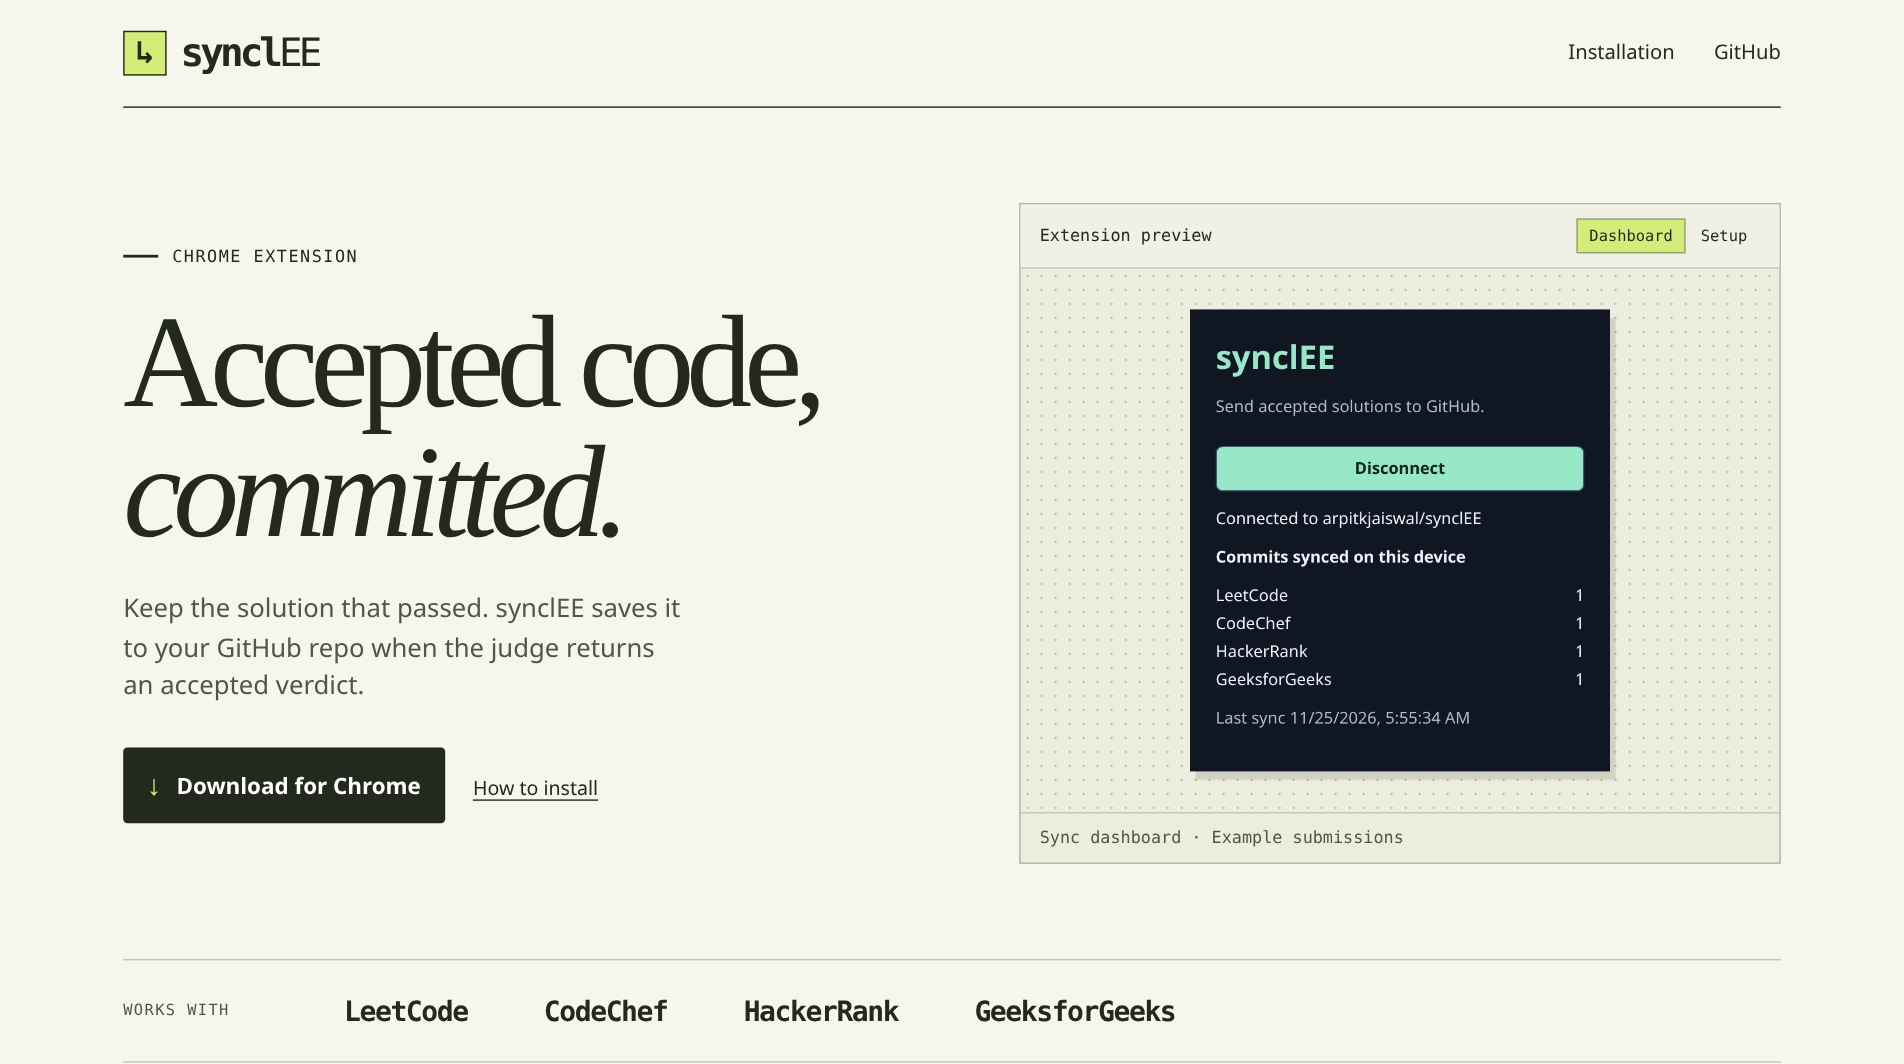
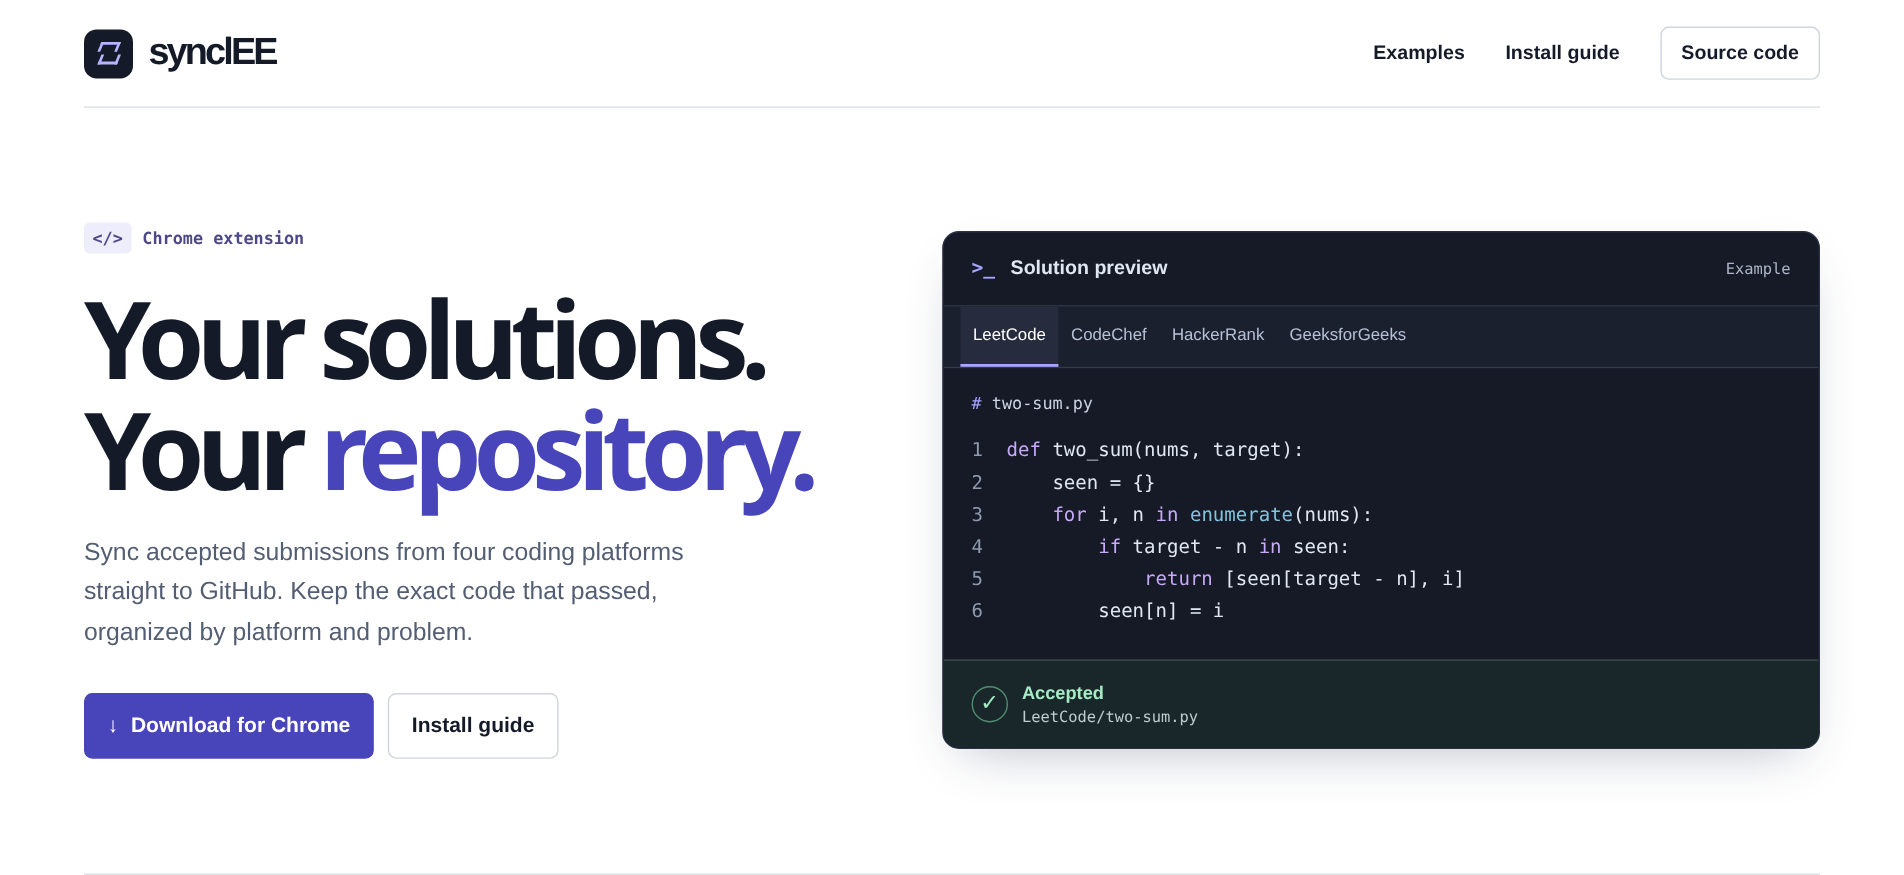
Present synclEE with an interactive solution explorer

diff --git a/site/styles.css b/site/styles.css
@@ -1,74 +1,86 @@
 :root {
   color-scheme: light;
-  --paper: #f6f5ee;
-  --ink: #24291e;
-  --muted: #505748;
-  --line: #c4c6b7;
-  --lime: #d4ed78;
-  --serif: 'Baskervville', 'Iowan Old Style', Georgia, serif;
-  --mono: 'IBM Plex Mono', ui-monospace, monospace;
-  font: 16px/1.5 'Instrument Sans', system-ui, sans-serif;
-  background: var(--paper);
+  --ink: #151a29;
+  --muted: #535e73;
+  --line: #d9dfe8;
+  --accent: #4845bb;
+  --mono: 'IBM Plex Mono', ui-monospace, 'DejaVu Sans Mono', monospace;
+  font: 16px/1.55 'Inter', -apple-system, BlinkMacSystemFont, 'Segoe UI', sans-serif;
+  background: #fff;
   color: var(--ink);
 }
 * { box-sizing: border-box; }
-body, figure, h1, h2, h3, p { margin: 0; }
-a { color: inherit; text-underline-offset: .23em; }
-a:focus-visible, button:focus-visible { outline: 3px solid #637b16; outline-offset: 4px; }
-.wrap { width: min(1184px, calc(100% - 80px)); margin-inline: auto; }
-.masthead, nav, footer, .brand, .preview-head, .controls { display: flex; align-items: center; }
-.masthead { justify-content: space-between; padding-block: 22px; border-bottom: 1px solid var(--ink); }
-.brand { gap: 0; font: 700 28px/1 var(--mono); letter-spacing: -.1em; text-decoration: none; }
-.brand > span:last-child { font-weight: 400; }
-.mark { display: grid; place-items: center; margin-right: 10px; width: 31px; height: 32px; background: var(--lime); border: 1px solid var(--ink); font: 700 23px/1 var(--mono); letter-spacing: 0; }
-nav { gap: 28px; font-size: .9rem; }
-nav a { text-decoration: none; }
-nav a:hover, .guide:hover, footer a:hover { text-decoration: underline; }
-.hero { display: grid; grid-template-columns: 1.05fr 1fr; align-items: center; gap: clamp(30px,5vw,80px); padding-block: clamp(42px,5vw,80px); }
-.format, .preview-head, figcaption, .platforms h2 { font: 12px/1.4 var(--mono); }
-.format, .platforms h2 { text-transform: uppercase; letter-spacing: .09em; }
-.format { display: flex; align-items: center; gap: 10px; }
-.format::before { content: ''; width: 25px; height: 2px; background: var(--ink); }
-h1 { font: 500 clamp(56px,6.9vw,103px)/.99 var(--serif); letter-spacing: -.062em; margin-block: 22px; }
-h1 em { font-weight: 400; }
-.lede { max-width: 38ch; color: var(--muted); font-size: clamp(16px,1.35vw,20px); }
-.download { display: inline-flex; align-items: center; gap: 11px; padding: 12px 17px; background: var(--ink); color: white; text-decoration: none; font-weight: 600; margin-top: 30px; border-radius: 3px; }
-.download span { color: var(--lime); font-size: 20px; }
-.download:hover { background: #374529; }
-.guide { margin-left: 16px; font-size: 14px; }
-.sheet { border: 1px solid #aeb29f; background: #eceddf; }
-.preview-head { justify-content: space-between; gap: 8px; padding: 10px 14px; border-bottom: 1px solid var(--line); background: #f0f0e5; }
-.controls { gap: 2px; }
-[hidden] { display: none !important; }
-.controls button { cursor: pointer; font: inherit; font-size: 11px; padding: 4px 8px; background: transparent; color: var(--ink); border: 1px solid transparent; }
-.controls button[aria-pressed=true] { border-color: #969e82; background: var(--lime); }
-.board { display: grid; place-items: center; min-height: 388px; padding: 24px; background-image: radial-gradient(#b5bba7 .8px, transparent .9px); background-size: 10px 10px; }
-.board img { display: block; width: min(100%, 300px); height: auto; max-height: 340px; object-fit: contain; filter: drop-shadow(4px 6px 0 rgb(53 62 42 / .15)); }
-figcaption { border-top: 1px solid var(--line); padding: 9px 14px; color: var(--muted); }
-.platforms { display:flex; align-items:center; gap:clamp(20px,6vw,85px); padding:22px 0; border-block:1px solid var(--line); }
-.platforms h2 { font-size:11px; color:var(--muted); }
-.platforms ul { padding:0; margin:0; display:flex; flex-wrap:wrap; gap:12px clamp(20px,4vw,60px); list-style:none; }
-.platforms li { font:600 clamp(15px,1.5vw,20px)/1.4 var(--mono); letter-spacing:-.05em; }
-.install { padding:64px 0; display:grid; grid-template-columns:1fr 1.45fr; gap:60px; }
-.install h2 { font:500 52px/1 var(--serif); letter-spacing:-.05em; margin-bottom:12px; }
-.install p { max-width:57ch; color:var(--muted); }
-.install > div p { max-width:29ch; }
-.install ol { list-style:decimal-leading-zero; margin:0; padding-left:2.7em; }
-.install li { padding:0 0 16px 6px; }
-.install li + li { border-top:1px solid var(--line); padding-top:16px; }
-.install li::marker { font:13px var(--mono); color:var(--muted); }
-.install h3 { font-size:1.05rem; margin-bottom:4px; }
+body, h1, h2, h3, p, figure, pre { margin: 0; }
+button { font: inherit; cursor: pointer; }
+a { color: inherit; text-underline-offset: .2em; }
+a:focus-visible, button:focus-visible { outline: 3px solid #827cef; outline-offset: 3px; }
+.wrap { width: min(1240px, calc(100% - 88px)); margin-inline: auto; }
+.masthead, nav, .brand, .actions, .format, .console-head, .commit, .preview-head, .controls, footer { display: flex; align-items: center; }
+.masthead { height: 77px; justify-content: space-between; border-bottom: 1px solid var(--line); }
+.brand { font-size: 27px; font-weight: 750; letter-spacing: -.075em; text-decoration: none; gap: 11px; }
+.mark { display: grid; place-content: center; gap: 2px; width: 35px; height: 35px; background: var(--ink); border-radius: 9px; }
+.mark i { width: 14px; height: 7px; border: 2px solid #b6b4ff; border-top: none; transform: skew(-22deg); }
+.mark i:first-child { transform: rotate(180deg) skew(-22deg); }
+nav { gap: 29px; font-size: 14px; font-weight: 550; }
+nav a, .actions a { text-decoration: none; }
+nav a:hover, footer a:hover { color: var(--accent); }
+.source-link, .guide { border: 1px solid #cfd4de; border-radius: 6px; padding: 7px 14px; }
+.hero { display: grid; grid-template-columns: .93fr 1.07fr; align-items: center; gap: clamp(25px,5vw,84px); padding: clamp(50px,6vw,92px) 0; }
+.format { gap: 8px; color: #4d4989; font: 600 12px/1.4 var(--mono); }
+.format span { background: #eeedfb; padding: 3px 6px; border-radius: 4px; }
+h1 { font: 735 clamp(55px,5.65vw,84px)/1.02 'Inter', system-ui, sans-serif; letter-spacing: -.075em; margin: 22px 0 20px; }
+h1 em { color: var(--accent); font-style: normal; }
+.lede { font-size: clamp(16px,1.3vw,19px); max-width: 45ch; line-height: 1.6; color: var(--muted); }
+.actions { flex-wrap: wrap; gap: 10px; margin-top: 30px; font-size: 15px; font-weight: 600; }
+.actions a { display: inline-flex; align-items: center; gap: 9px; padding: 11px 16px; border-radius: 6px; }
+.download { background: var(--accent); color: white; border: 1px solid var(--accent); }
+.download:hover { background: #332f98; }
+.guide:hover, .source-link:hover { background: #f2f3f8; }
+.console { min-width: 0; background: #151a26; color: #e0e6f2; border: 1px solid #2a3141; border-radius: 12px; overflow: hidden; box-shadow: 0 14px 36px -15px #28345455; }
+.console-head { gap: 11px; padding: 15px 20px; font-size: 14px; font-weight: 600; border-bottom: 1px solid #333a49; }
+.console-symbol { font: 600 14px var(--mono); color: #a7a4ff; }
+.sample { margin-left: auto; font: 11px var(--mono); color: #adb5c7; }
+.switcher { display: flex; padding: 0 12px; border-bottom: 1px solid #333a49; background: #1b202e; }
+.switcher button { border: 0; border-bottom: 2px solid transparent; padding: 11px 9px; color: #b6c1d6; background: transparent; font-size: 12px; }
+.switcher button[aria-pressed=true] { color: #fff; border-color: #aaa5ff; background: #262b3d; }
+.file { margin: 18px 20px 8px; font: 12px var(--mono); color: #ccd3e3; }
+.file > span:first-child { color: #a6a2fd; }
+pre { min-height: 168px; overflow-x: auto; padding: 8px 20px 18px; font: clamp(11px,1vw,14px)/1.7 var(--mono); counter-reset: line; }
+pre code { display: block; font: inherit; }
+pre code::before { counter-increment: line; content: counter(line); color: #8f9aaf; display: inline-block; width: 25px; user-select: none; }
+.keyword { color: #c8a8fa; } .builtin { color: #82c4e0; }
+.commit { gap: 10px; padding: 13px 20px; background: #19272b; border-top: 1px solid #38494c; }
+.check { display: grid; place-items: center; color: #a5ebc4; width: 26px; height: 26px; border: 1px solid #4f8d70; border-radius: 50%; }
+.commit strong, .commit small { display: block; } .commit strong { font-size: 13px; color: #a5ebc4; }
+.commit small { color: #bfcbcc; font: 11px/1.5 var(--mono); overflow-wrap: anywhere; }
+.setup-layout { border-top: 1px solid var(--line); padding: 48px 0 60px; display: grid; grid-template-columns: 1.25fr 1fr; gap: clamp(32px,7vw,106px); align-items: start; }
+h2 { font-size: clamp(30px,3vw,40px); letter-spacing: -.055em; line-height: 1.2; margin-bottom: 10px; }
+.instructions p { color: var(--muted); max-width: 62ch; }
+ol { list-style: none; counter-reset: step; margin: 22px 0 0; padding: 0; }
+li { counter-increment: step; position: relative; padding: 14px 0 16px 40px; border-top: 1px solid var(--line); }
+li::before { content: counter(step); position: absolute; top: 16px; left: 0; text-align: center; font: 12px/24px var(--mono); width: 24px; background: #efeff9; color: var(--accent); border-radius: 5px; }
+li h3 { font-size: 17px; } li p { font-size: 15px; margin-top: 4px; }
 code { font: .9em var(--mono); }
-footer { border-top:1px solid var(--line); justify-content:space-between; padding:20px 0 30px; font-size:.85rem; }
-@media (max-width:760px) {
-  .wrap { width: calc(100% - 36px); }
-  .masthead { padding-block:15px; }
-  nav { gap:15px; }
-  .hero, .install { grid-template-columns:1fr; gap:28px; }
-  .hero { padding:38px 0 24px; }
-  h1 { font-size:clamp(59px,11vw,78px); }
-  .board { min-height:330px; padding:16px; }
-  .board img { max-height:300px; }
-  .platforms { align-items:flex-start; flex-direction:column; gap:12px; }
-  .install { padding:38px 0; }
+.sheet { border: 1px solid var(--line); border-radius: 9px; overflow: hidden; background: #f4f5f9; }
+.preview-head { padding: 12px 15px; gap: 6px; justify-content: space-between; background: #fafbfc; font-size: 14px; font-weight: 600; border-bottom: 1px solid var(--line); }
+.controls { border: 1px solid #cbd0de; padding: 2px; border-radius: 6px; }
+.controls button { border: 0; font-size: 12px; color: var(--muted); background: transparent; border-radius: 4px; padding: 4px 8px; }
+.controls button[aria-pressed=true] { background: #e5e5f6; color: #37338c; }
+[hidden] { display: none !important; }
+.board { min-height: 350px; padding: 19px; display: grid; place-items: center; background-image: radial-gradient(#cdd0df .8px, transparent .9px); background-size: 10px 10px; }
+.board img { display: block; width: min(100%, 285px); height: auto; max-height: 315px; object-fit: contain; }
+figcaption { padding: 8px 15px; color: var(--muted); border-top: 1px solid var(--line); font-size: 12px; }
+footer { padding: 20px 0 30px; justify-content: space-between; border-top: 1px solid var(--line); font-size: 13px; }
+@media (max-width: 850px) {
+  .wrap { width: calc(100% - 40px); }
+  .hero, .setup-layout { grid-template-columns: 1fr; gap: 32px; }
+  .hero { padding: 40px 0; } .lede { max-width: 55ch; }
+}
+@media (max-width: 520px) {
+  .wrap { width: calc(100% - 32px); } .masthead { height: 63px; }
+  nav { gap: 12px; font-size: 12px; } .source-link { padding: 5px 8px; }
+  .brand { font-size: 23px; gap: 6px; } .mark { width: 27px; height: 28px; }
+  h1 { font-size: clamp(46px,11vw,58px); } .actions { gap: 7px; }
+  .switcher { padding: 0 4px; } .switcher button { flex: 1; padding: 11px 3px; font-size: 11px; }
+  pre { padding-inline: 11px; } pre code::before { width: 18px; }
 }

diff --git a/site/index.html b/site/index.html
@@ -3,24 +3,48 @@
 <head>
   <meta charset="utf-8">
   <meta name="viewport" content="width=device-width, initial-scale=1">
-  <meta name="theme-color" content="#f6f5ee">
+  <meta name="theme-color" content="#ffffff">
   <meta name="description" content="Save accepted coding solutions from four practice platforms to your own GitHub repository with synclEE.">
   <title>synclEE — Accepted solutions, saved to GitHub</title>
   <link rel="stylesheet" href="styles.css">
 </head>
 <body>
 <header class="masthead wrap">
-  <a class="brand" href="./" aria-label="synclEE home"><span class="mark" aria-hidden="true">↳</span> syncl<span>EE</span></a>
-  <nav aria-label="Main"><a href="#install">Installation</a><a href="https://github.com/arpitkjaiswal/synclEE">GitHub</a></nav>
+  <a class="brand" href="./" aria-label="synclEE home"><span class="mark" aria-hidden="true"><i></i><i></i></span>synclEE</a>
+  <nav aria-label="Main"><a href="#examples">Examples</a><a href="#install">Install guide</a><a class="source-link" href="https://github.com/arpitkjaiswal/synclEE">Source code</a></nav>
 </header>
 <main class="wrap">
   <section class="hero" aria-labelledby="heading">
     <div class="intro">
-      <p class="format">Chrome extension</p>
-      <h1 id="heading">Accepted code,<br><em>committed.</em></h1>
-      <p class="lede">Keep the solution that passed. synclEE saves it to your GitHub repo when the judge returns an accepted verdict.</p>
-      <a class="download" href="synclEE.zip" download><span aria-hidden="true">↓</span> Download for Chrome</a>
-      <a class="guide" href="#install">How to install</a>
+      <p class="format"><span aria-hidden="true">&lt;/&gt;</span> Chrome extension</p>
+      <h1 id="heading">Your solutions.<br>Your <em>repository.</em></h1>
+      <p class="lede">Sync accepted submissions from four coding platforms straight to GitHub. Keep the exact code that passed, organized by platform and problem.</p>
+      <div class="actions"><a class="download" href="synclEE.zip" download><span aria-hidden="true">↓</span> Download for Chrome</a>
+      <a class="guide" href="#install">Install guide</a></div>
+    </div>
+    <section class="console" id="examples" aria-label="Example solution files">
+      <div class="console-head"><span class="console-symbol" aria-hidden="true">&gt;_</span> Solution preview <span class="sample">Example</span></div>
+      <div class="switcher" aria-label="Choose a platform">
+        <button type="button" aria-pressed="true">LeetCode</button><button type="button" aria-pressed="false">CodeChef</button><button type="button" aria-pressed="false">HackerRank</button><button type="button" aria-pressed="false">GeeksforGeeks</button>
+      </div>
+      <div class="file"><span aria-hidden="true">#</span> <span id="filename">two-sum.py</span></div>
+      <pre id="editor" aria-label="Example Python code"><code>def two_sum(nums, target):
+    seen = {}
+    for i, n in enumerate(nums):
+        if target - n in seen:
+            return [seen[target - n], i]
+        seen[n] = i</code></pre>
+      <div class="commit"><span class="check" aria-hidden="true">✓</span><div><strong>Accepted</strong><small id="filepath">LeetCode/two-sum.py</small></div></div>
+    </section>
+  </section>
+  <section class="setup-layout" id="install" aria-labelledby="install-heading">
+    <div class="instructions">
+      <h2 id="install-heading">Install synclEE</h2><p>You’ll need desktop Chrome and an initialized GitHub repository.</p>
+    <ol>
+      <li><h3>Load the extension</h3><p>Unzip the download. Open <code>chrome://extensions</code>, turn on Developer mode, then choose <b>Load unpacked</b> and select the extracted folder.</p></li>
+      <li><h3>Connect your repository</h3><p>Enable Device Flow in your <a href="https://github.com/settings/developers">GitHub OAuth app</a>. Enter its client ID and your repository in the popup. Authorize the device code on GitHub, then reopen the popup.</p></li>
+      <li><h3>Submit a solution</h3><p>After an accepted verdict, check the commit in your repo. Identical code skips the extra commit.</p></li>
+    </ol>
     </div>
     <figure class="sheet">
       <div class="preview-head"><span>Extension preview</span><span class="controls" hidden><button type="button" data-view="dashboard" aria-pressed="true">Dashboard</button><button type="button" data-view="connect" aria-pressed="false">Setup</button></span></div>
@@ -28,21 +52,39 @@
       <figcaption id="caption">Sync dashboard · Example submissions</figcaption>
     </figure>
   </section>
-  <section class="platforms" aria-labelledby="platform-heading">
-    <h2 id="platform-heading">Works with</h2>
-    <ul><li>LeetCode</li><li>CodeChef</li><li>HackerRank</li><li>GeeksforGeeks</li></ul>
-  </section>
-  <section id="install" class="install" aria-labelledby="install-heading">
-    <div><h2 id="install-heading">Set it up.</h2><p>You’ll need desktop Chrome and a GitHub repository with an initial commit.</p></div>
-    <ol>
-      <li><h3>Load the extension</h3><p>Unzip the download. Open <code>chrome://extensions</code>, turn on Developer mode, then choose <b>Load unpacked</b> and select the extracted folder.</p></li>
-      <li><h3>Connect your repository</h3><p>Enable Device Flow in your <a href="https://github.com/settings/developers">GitHub OAuth app</a>. Enter its client ID and your repository in the popup. Authorize the device code on GitHub, then reopen the popup.</p></li>
-      <li><h3>Submit a solution</h3><p>After an accepted verdict, check the commit in your repo. Identical code skips the extra commit.</p></li>
-    </ol>
-  </section>
 </main>
 <footer class="wrap"><span>synclEE by <a href="https://github.com/arpitkjaiswal">Arpit Jaiswal</a></span><a href="https://github.com/arpitkjaiswal/synclEE/issues">Report an issue</a></footer>
 <script>
+  const samples = {
+    LeetCode: ['two-sum.py', 'LeetCode/two-sum.py', document.querySelector('#editor').textContent],
+    CodeChef: ['FLOW001.py', 'CodeChef/FLOW001.py', 'cases = int(input())\nfor _ in range(cases):\n    a, b = map(int, input().split())\n    print(a + b)'],
+    HackerRank: ['simple-array-sum.py', 'HackerRank/simple-array-sum.py', 'def simpleArraySum(ar):\n    return sum(ar)'],
+    GeeksforGeeks: ['reverse-an-array.py', 'GeeksforGeeks/reverse-an-array.py', 'class Solution:\n    def reverseArray(self, arr):\n        arr.reverse()']
+  };
+  function showSample(platform) {
+    const [file, path, code] = samples[platform];
+    document.querySelector('#filename').textContent = file;
+    document.querySelector('#filepath').textContent = path;
+    const lines = code.split('\n').map(line => {
+      const row = document.createElement('code');
+      for (const token of line.split(/(\b(?:def|class|for|if|in|return|sum|enumerate|print|range|input|int|map)\b)/g)) {
+        const part = document.createElement('span');
+        if (/^(def|class|for|if|in|return)$/.test(token)) part.className = 'keyword';
+        else if (/^(sum|enumerate|print|range|input|int|map)$/.test(token)) part.className = 'builtin';
+        part.textContent = token;
+        row.append(part);
+      }
+      return row;
+    });
+    document.querySelector('#editor').replaceChildren(...lines);
+    for (const button of document.querySelectorAll('.switcher button')) {
+      button.setAttribute('aria-pressed', String(button.textContent === platform));
+    }
+  }
+  document.querySelector('.switcher').addEventListener('click', event => {
+    if (event.target.matches('button')) showSample(event.target.textContent);
+  });
+  showSample('LeetCode');
   const views = {
     dashboard: ['Sync dashboard · Example submissions', 'synclEE popup showing one sample commit from each platform', 792],
     connect: ['First-time setup · GitHub connection', 'synclEE popup with repository and OAuth client ID fields', 936]

diff --git a/README.md b/README.md
@@ -4,9 +4,9 @@ A Chrome extension that saves accepted coding solutions to a GitHub repository y
 
 ## Screenshots
 
-[![synclEE download page with the extension’s sync dashboard](docs/screenshots/download-page.png)](https://arpitkjaiswal.github.io/synclEE/)
+[![synclEE download page showing an example accepted LeetCode solution and its GitHub file path](docs/screenshots/download-page.png)](https://arpitkjaiswal.github.io/synclEE/)
 
-Select **Dashboard** or **Setup** on the [download page](https://arpitkjaiswal.github.io/synclEE/) to explore both popup views. The captures use the actual extension UI with simulated GitHub responses and sample submissions.
+Choose a platform on the [download page](https://arpitkjaiswal.github.io/synclEE/) to see a sample solution and its destination file. The installation guide includes **Dashboard** and **Setup** views of the extension. The captures use the actual extension UI with simulated GitHub responses and sample submissions.
 
 ## Run locally
 
